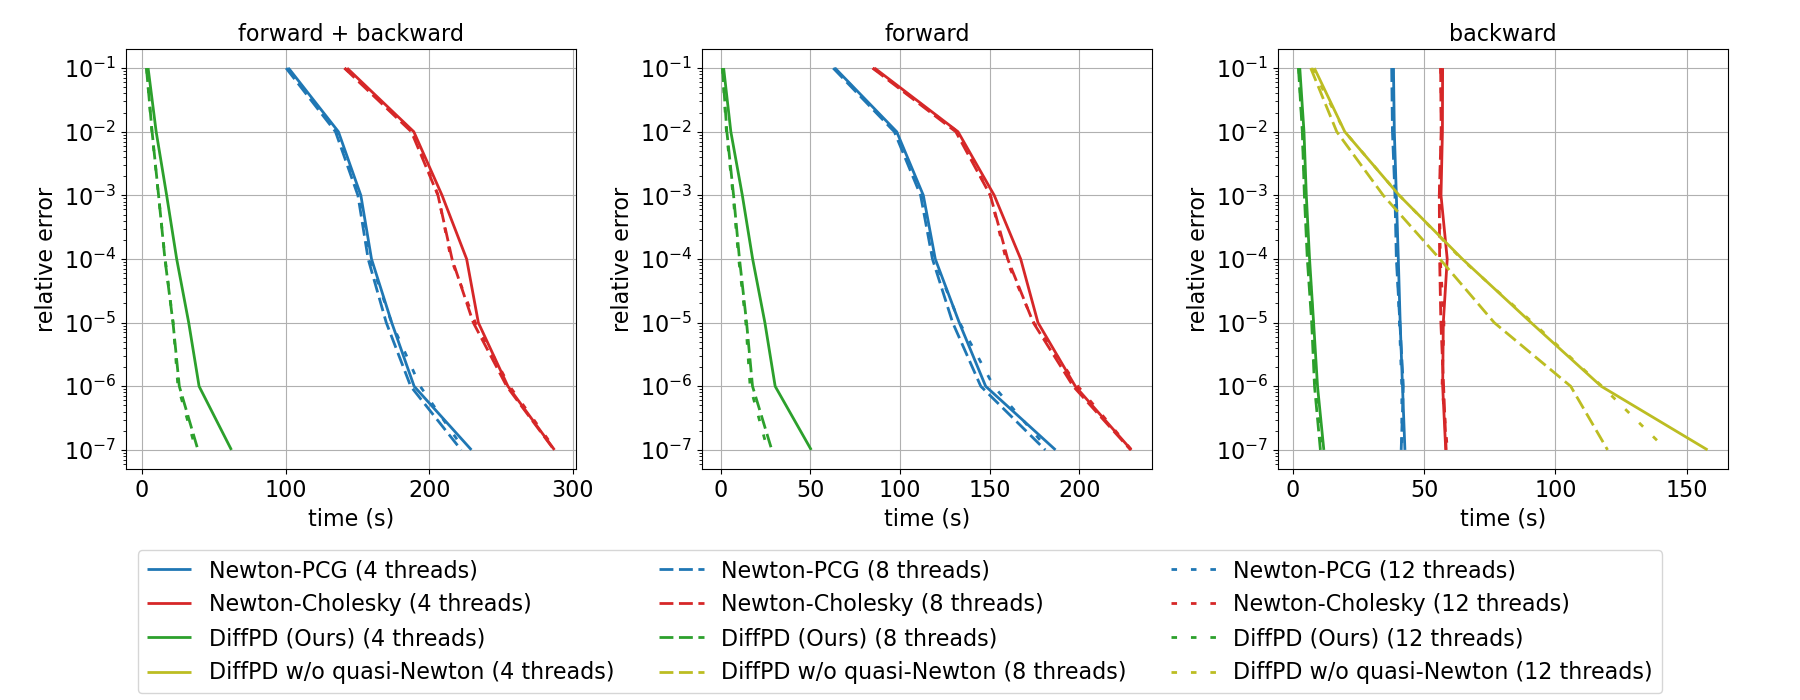
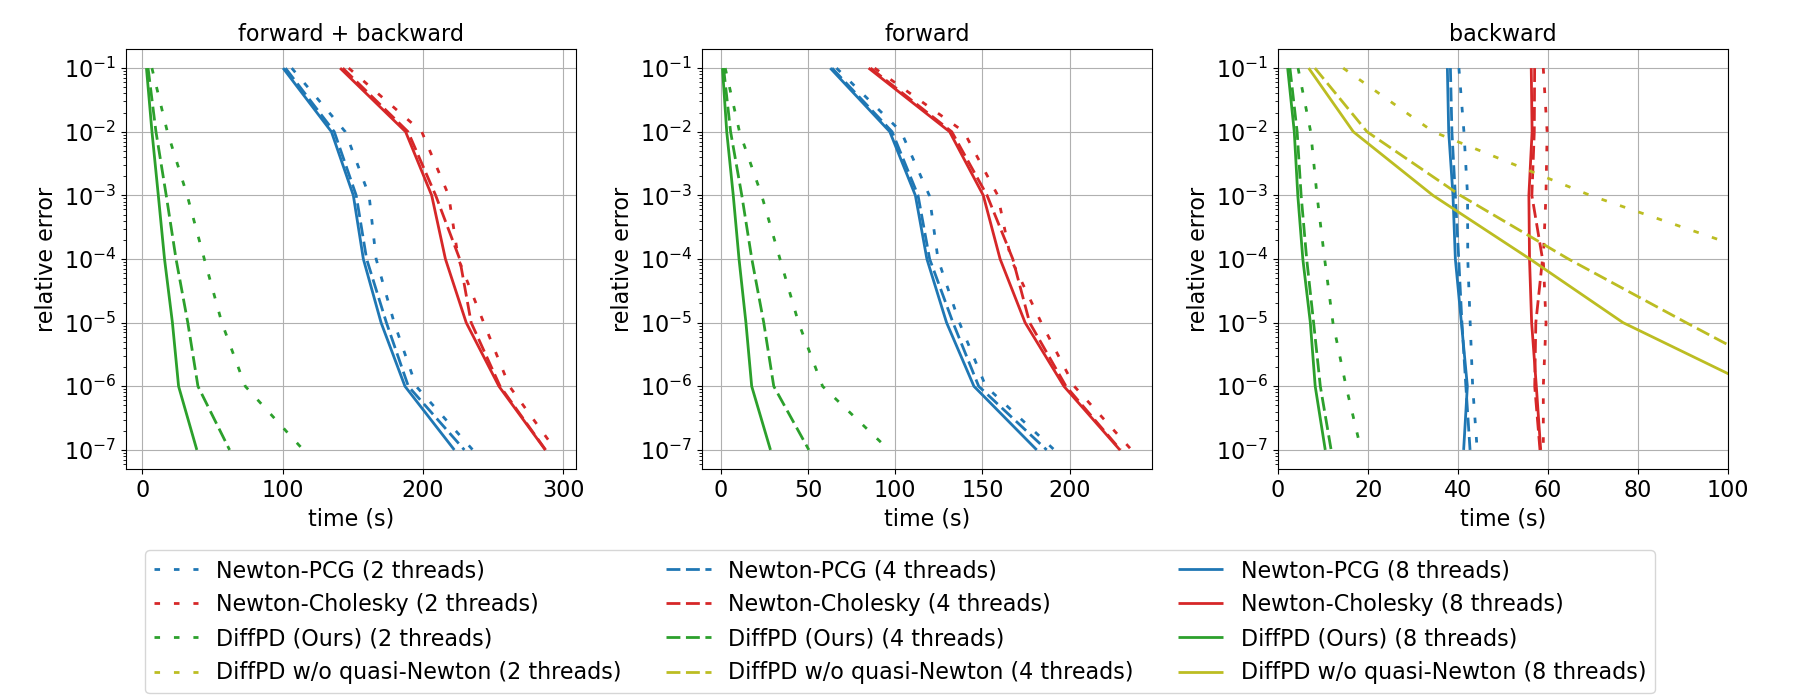
Final benchmark_3d table and figure. [skip ci]

diff --git a/python/example/print_benchmark_3d_table.py b/python/example/print_benchmark_3d_table.py
@@ -84,7 +84,7 @@ if __name__ == '__main__':
     ax_poses = [(0.07, 0.33, 0.25, 0.6),
         (0.39, 0.33, 0.25, 0.6),
         (0.71, 0.33, 0.25, 0.6)]
-    dash_list =[(5, 0), (5, 2), (2, 5), (4, 10), (3, 3, 2, 2), (5, 2, 20, 2), (5, 5), (5, 2, 1, 2)]
+    dash_list =[(2, 5), (5, 2), (5, 0), (4, 10), (3, 3, 2, 2), (5, 2, 20, 2), (5, 5), (5, 2, 1, 2)]
     for ax_pos, title, ax, t in zip(ax_poses, titles, (ax_fb, ax_f, ax_b), (forward_backward_times, forward_times, backward_times)):
         ax.set_position(ax_pos)
         ax.set_xlabel('time (s)')
@@ -109,6 +109,8 @@ if __name__ == '__main__':
 
         ax.grid(True)
         ax.set_title(title)
+        if title == 'backward':
+            ax.set_xlim([0, 100])
         handles, labels = ax.get_legend_handles_labels()
 
     # Share legends.
